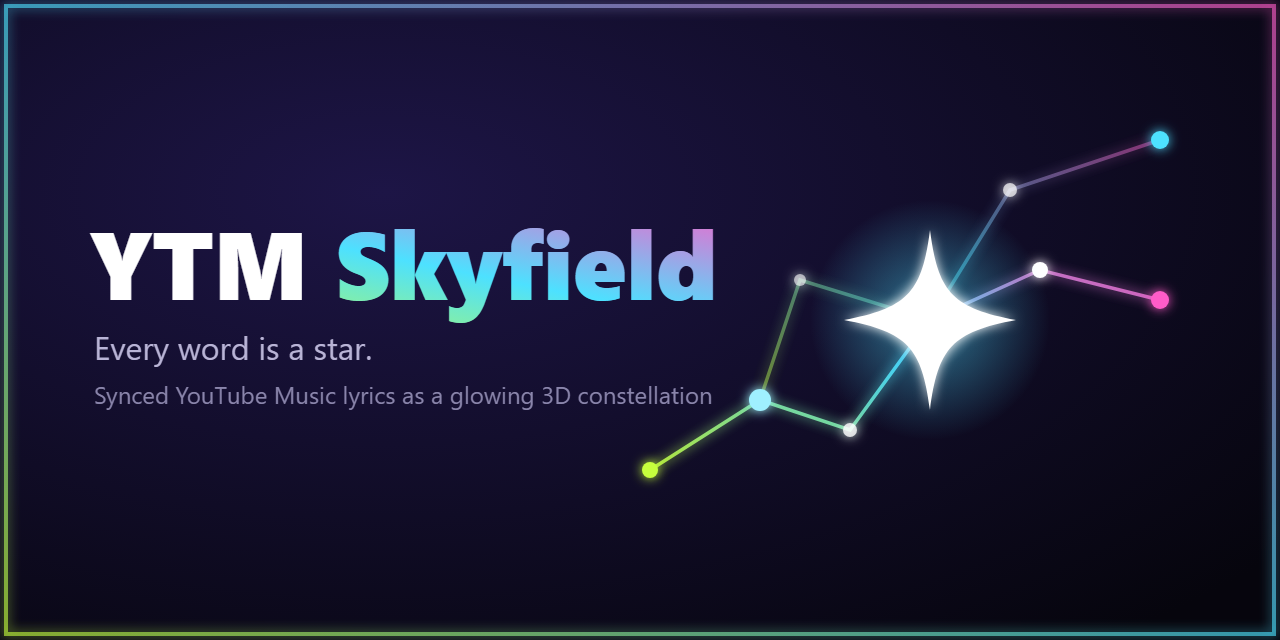
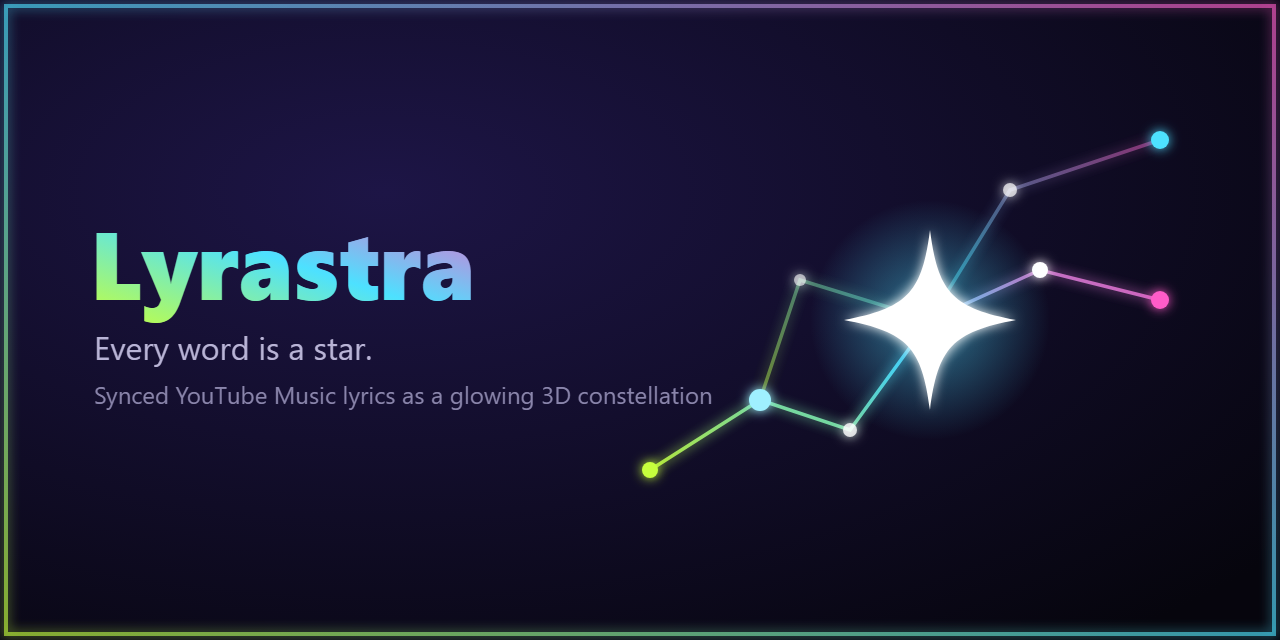
Rename to Lyrastra

Changed region(s): [[0.0625, 0.3438, 0.5625, 0.5]]

diff --git a/extension/viewer.html b/extension/viewer.html
@@ -3,7 +3,7 @@
 <head>
 <meta charset="utf-8">
 <meta name="viewport" content="width=device-width,initial-scale=1">
-<title>Skyfield</title>
+<title>Lyrastra</title>
 <style>
   html, body { margin: 0; height: 100%; background: #000; overflow: hidden; }
   body.idle { cursor: none; }

diff --git a/README.md b/README.md
@@ -1,4 +1,4 @@
-<p align="center"><img src="docs/banner.png" alt="YTM Skyfield" width="100%"></p>
+<p align="center"><img src="docs/banner.png" alt="Lyrastra" width="100%"></p>
 
 <p align="center">
   <img src="docs/logo.png" width="96" alt="logo"><br>
